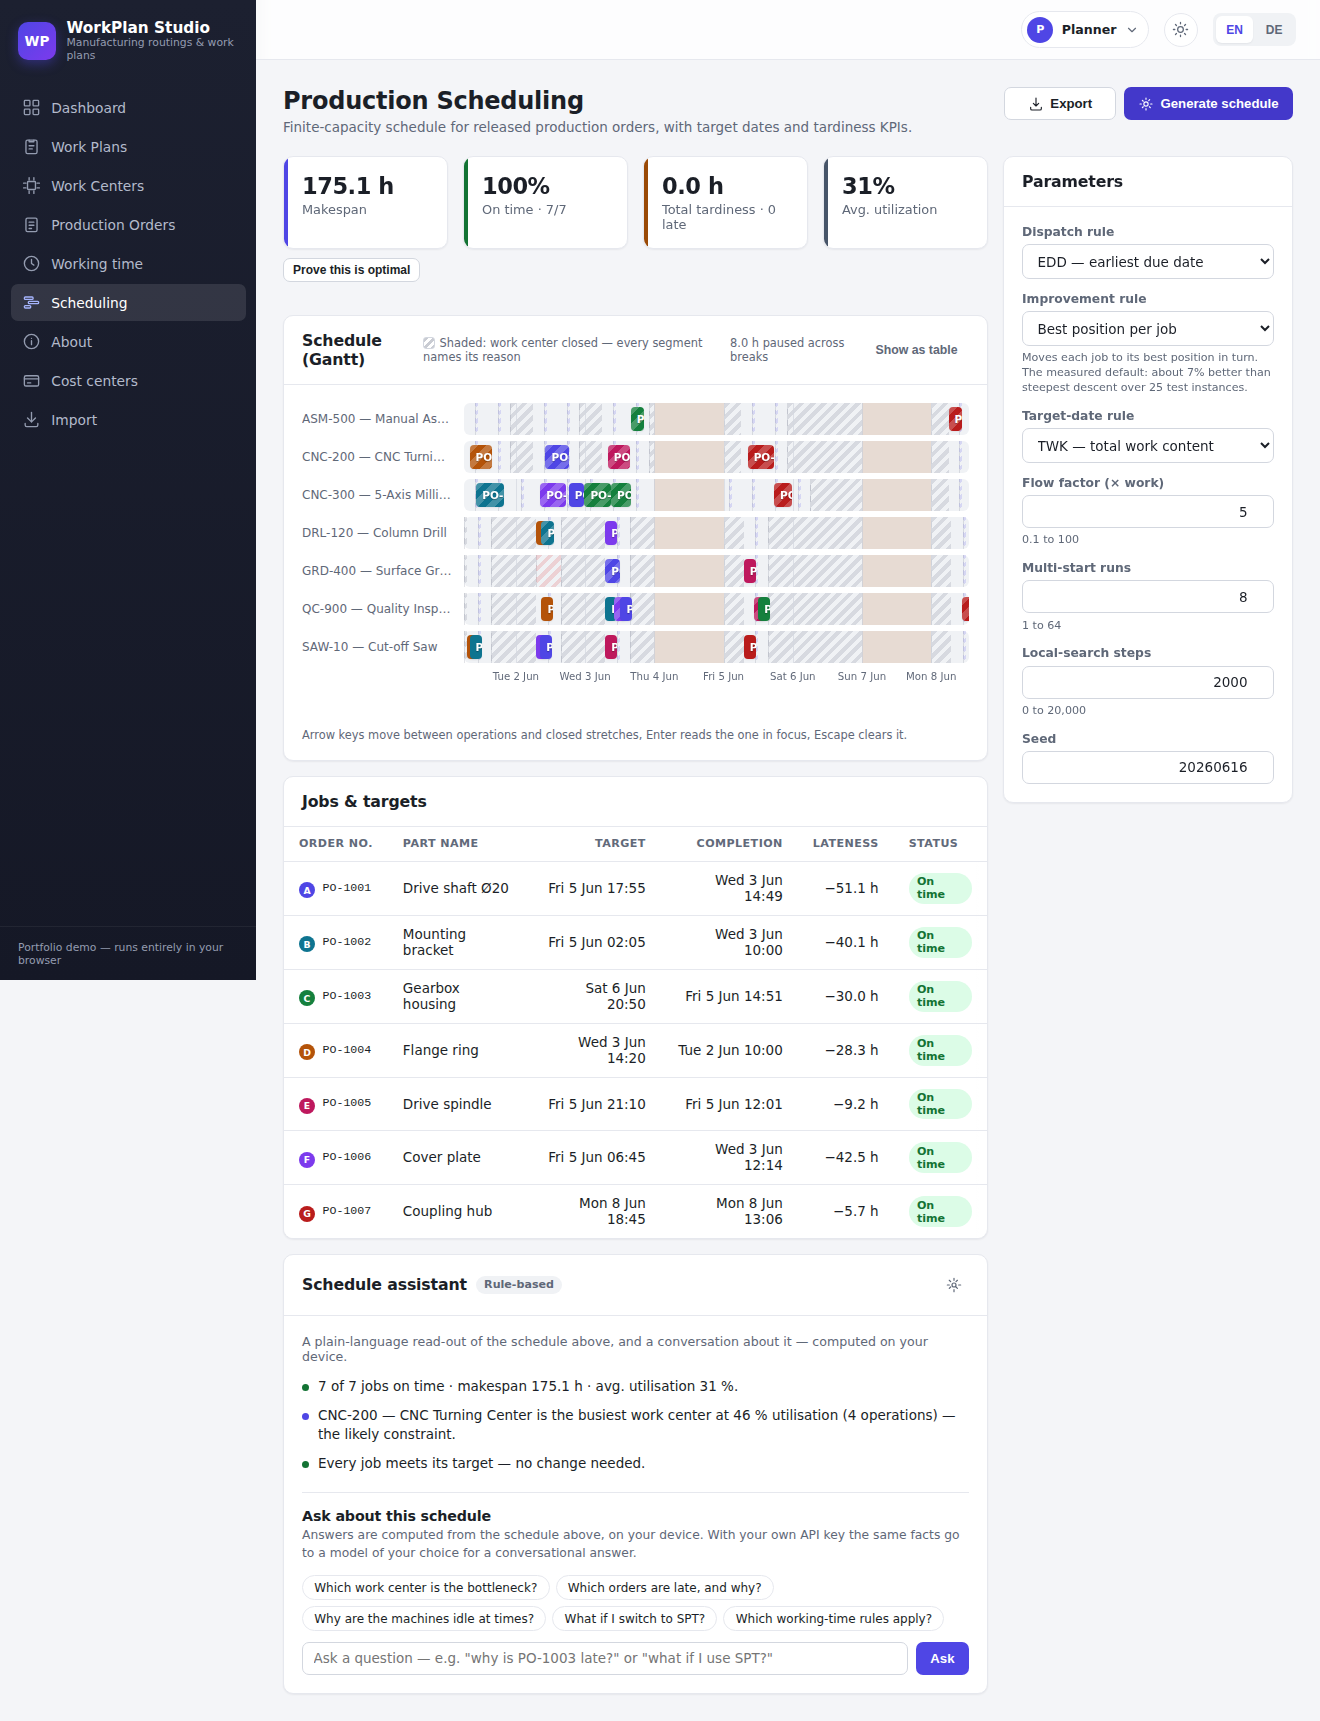
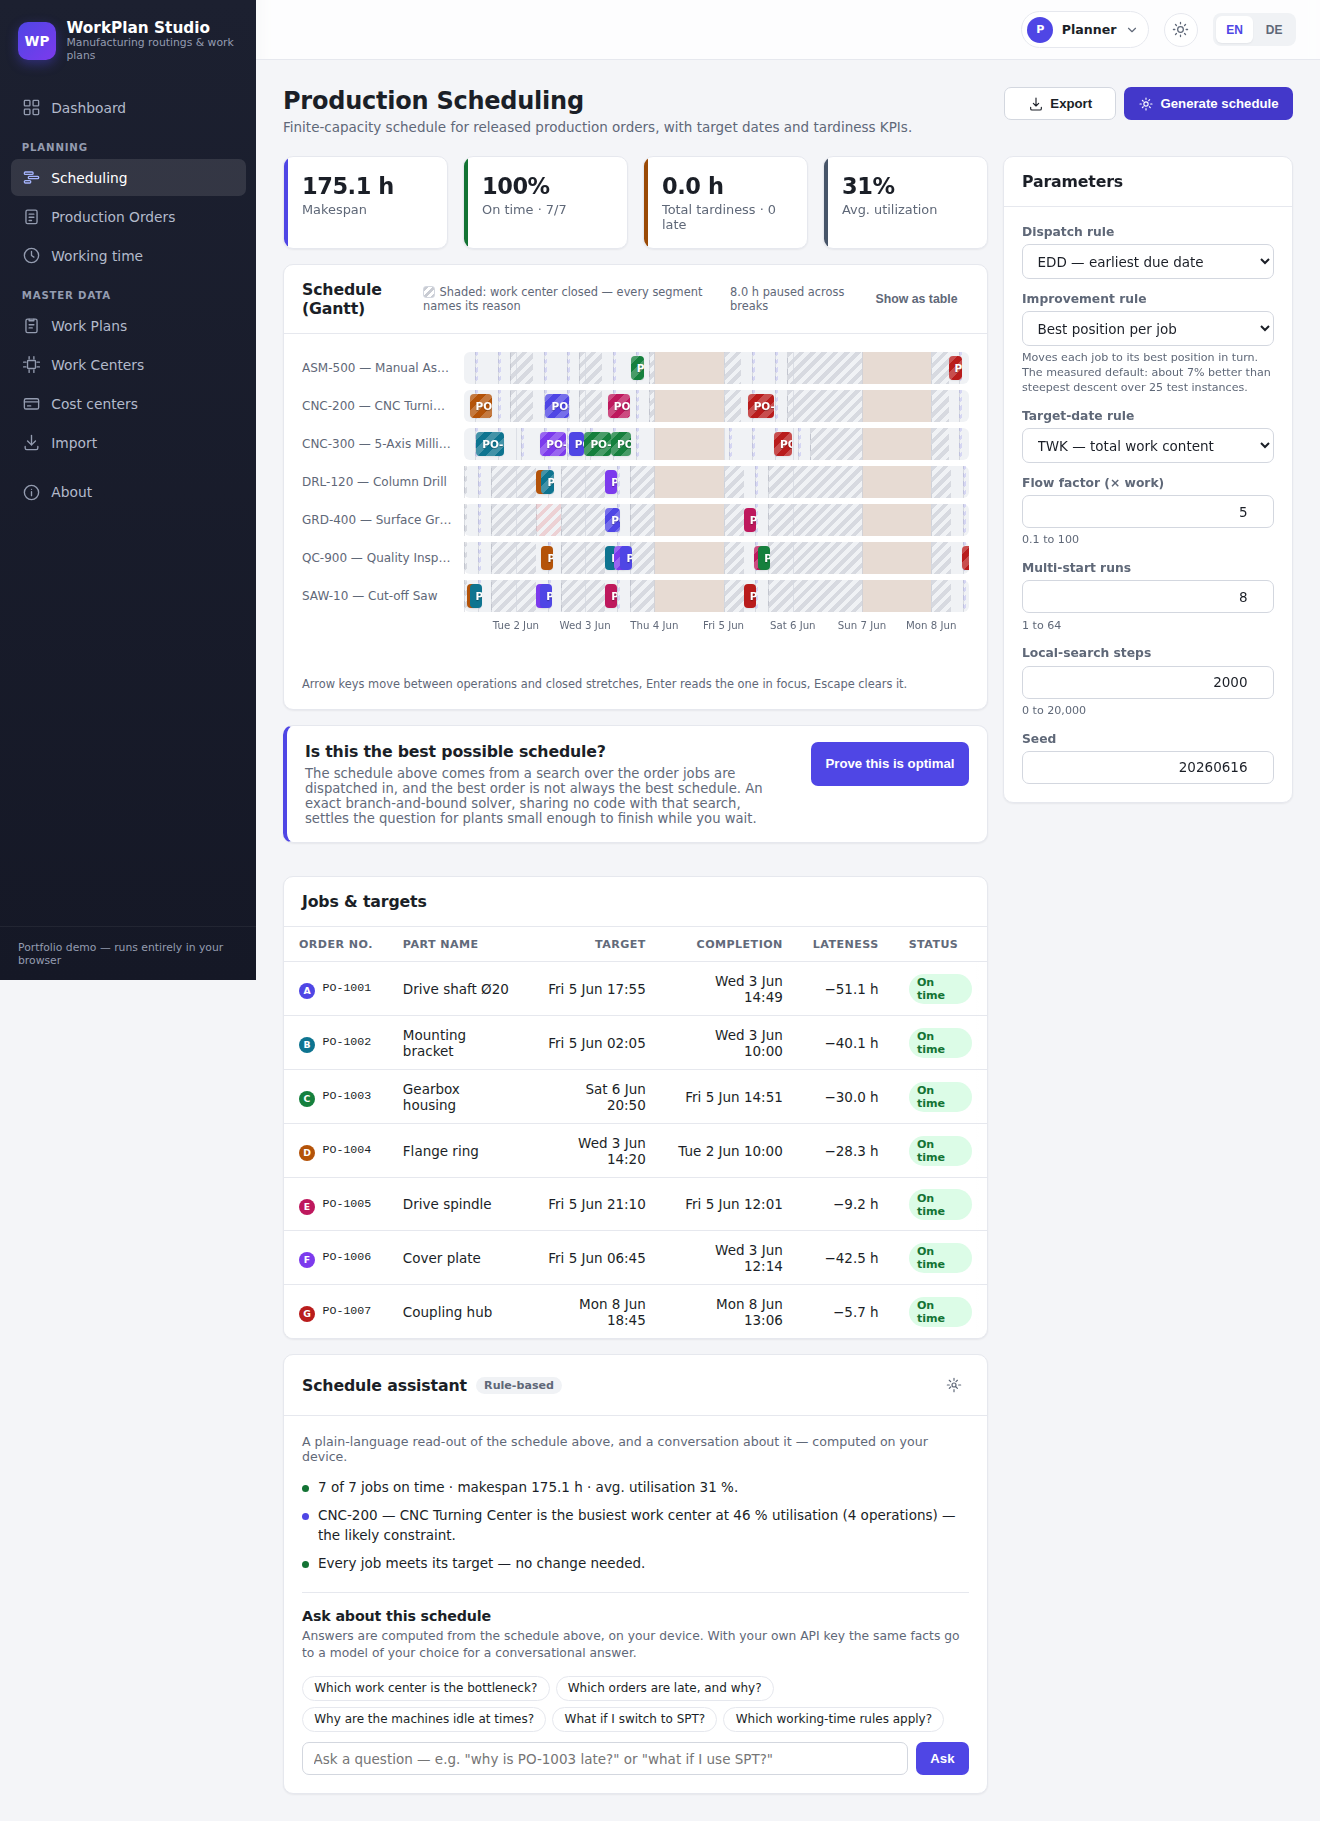
Retake every README screenshot, and the test counts with them
Captured on Linux by the E2E workflow's capture_doc_images input (run
43996563171): the dashboard in both themes, working time, the schedule dark
and on a phone, the chat in English and German, and the on-time/late pair.
They now show the grouped navigation and the optimality card.

Web suite 1 009 -> 1 011 (EditableAreaWhileAuthorizingTests), measured on
main; 1 807 in all.

diff --git a/README.de.md b/README.de.md
@@ -185,7 +185,7 @@ Die Kopfleiste lässt Sie **Planer** (alles), **Meister** (Aufträge freigeben u
 
 ## Entwicklungspraxis — gemessen, nicht behauptet
 
-- **1 805 Unit- und Integrationstests in fünf Projekten, dazu 102 Browsertests**: Unit, eigenschaftsbasiert (CsCheck), bewiesene Optimalität gegen einen unabhängigen Löser, Architektur, Leistungsbudgets, Datentests mit echtem SQLite samt Schemaaufwertung, Berechtigungen als per Reflexion ermittelte geschlossene Menge, bUnit-Komponenten, Anbieter-Clients gegen einen feindlichen Stub-Transport, HTTP-Integrationstests gegen das Backend, Byte-Tests der PDF- und xlsx-Writer, Playwright-Abläufe in beiden Sprachen, **null axe-Verstöße auf jeder Route in hell, dunkel und auf Deutsch** (der WCAG-2.x-A/AA-Regelsatz, also etwa ein Drittel des Standards) und **Bildvergleich** gegen Pixel-Baselines. [docs/TESTING.de.md](docs/TESTING.de.md).
+- **1 807 Unit- und Integrationstests in fünf Projekten, dazu 102 Browsertests**: Unit, eigenschaftsbasiert (CsCheck), bewiesene Optimalität gegen einen unabhängigen Löser, Architektur, Leistungsbudgets, Datentests mit echtem SQLite samt Schemaaufwertung, Berechtigungen als per Reflexion ermittelte geschlossene Menge, bUnit-Komponenten, Anbieter-Clients gegen einen feindlichen Stub-Transport, HTTP-Integrationstests gegen das Backend, Byte-Tests der PDF- und xlsx-Writer, Playwright-Abläufe in beiden Sprachen, **null axe-Verstöße auf jeder Route in hell, dunkel und auf Deutsch** (der WCAG-2.x-A/AA-Regelsatz, also etwa ein Drittel des Standards) und **Bildvergleich** gegen Pixel-Baselines. [docs/TESTING.de.md](docs/TESTING.de.md).
 - **Abdeckung je Assembly in der CI abgesichert, und die Schwelle selbst ebenso** — der Build scheitert, wenn eine Assembly unter ihre Schwelle fällt, und ebenso, wenn die Abdeckung **mehr als drei Punkte darüber** steigt: eine Schwelle, der die Abdeckung davongelaufen ist, verteidigt nichts mehr und wird nie rot dabei. Die Schwellen stehen an genau einer Stelle, in den `GATE_*`-Variablen von [`ci.yml`](.github/workflows/ci.yml), und liegen ein bis zwei Punkte unter dem Gemessenen. **Was gemessen wurde, steht auf den Badges oben**, erzeugt bei jeder Auslieferung aus demselben Lauf — sie *sind* die Zahl und nicht eine Kopie davon. Dieser Punkt trug die sechs Werte früher von Hand; als die Drift-Prüfung entstand, waren zwei davon drei Punkte hinter der Abdeckung zurück, die sie bewachen sollten.
 - **Auslieferung erst nach allem** — die Testmatrix mit ihren Abdeckungsschwellen *und* die Browser-Suite müssen bestehen, bevor GitHub Pages aktualisiert wird, und der Job, der fremden Testcode ausführt, hält keine Auslieferungsrechte.
 - **Leistung gemessen, auch dort, wo es unschmeichelhaft ist** — BenchmarkDotNet über die Bibliotheken, Stolperdrähte auf die Uhr und Lighthouse CI auf der veröffentlichten Seite, die den Seitenaufbau mit **36 / 100** bewertete, bis der erste Bildschirm beim Build gerendert wurde, und jetzt auf jeder gemessenen Seite **70** vergibt, Barrierefreiheit, Best Practices und SEO 100. Alles, samt der Maschine, auf der es gemessen wurde, steht in [docs/PERFORMANCE.de.md](docs/PERFORMANCE.de.md).

diff --git a/docs/TESTING.de.md b/docs/TESTING.de.md
@@ -33,12 +33,12 @@ Die Zahlen wurden auf diesem Stand durch Ausführen jeder Suite gemessen; siehe
 | --- | --- | --: | --- | :---: | --- |
 | Engine: Unit, Property, Optimalität, exakter Löser, Architektur, Budgets | `tests/WorkPlanStudio.Scheduling.Tests` | **294** | Determinismus, Zulässigkeit, Regeln, Kalender und Sperrzeiten, Eingabeprüfung, allokationsfreie Bewertung, die Optimalitätsstudie über zwanzig Instanzen, das LP-Modell, ein abhängigkeitsfreier Kern | nein | ~5 s |
 | Arbeitszeit: Unit, Property, Architektur, Budgets | `tests/WorkPlanStudio.WorkingTime.Tests` | **255** | Feiertage aller 16 Länder über 1990–2200, Schichtmodelle, jede ArbZG-Vorschrift mit ihrem Parameter, die Ausgleichszeiträume, beide Zeitumstellungen, die Invarianten des Zeitleistenbauers | nein | ~1 s |
-| Daten, Mapping, Berechtigungen, Import, Komponenten, Assistent, Fernzugriff | `tests/WorkPlanStudio.Web.Tests` | **1 009** | echte SQLite-Bedingungen und Schemaaufwertungen, das Alles-oder-nichts-Mapping, die Rollenrichtlinien als geschlossene Menge, das Versprechen des Imports (Vorschau = Übernahme), lokalisierte Komponentenzustände, der zerlegte Lauf, der Optimalitätsbeweis, der Chat gegen feindliche Antworten | ja¹ | ~5 s |
+| Daten, Mapping, Berechtigungen, Import, Komponenten, Assistent, Fernzugriff | `tests/WorkPlanStudio.Web.Tests` | **1 011** | echte SQLite-Bedingungen und Schemaaufwertungen, das Alles-oder-nichts-Mapping, die Rollenrichtlinien als geschlossene Menge, das Versprechen des Imports (Vorschau = Übernahme), lokalisierte Komponentenzustände, der zerlegte Lauf, der Optimalitätsbeweis, der Chat gegen feindliche Antworten | ja¹ | ~5 s |
 | Backend: HTTP-Integration gegen eine echte SQLite-Datei | `tests/WorkPlanStudio.Api.Tests` | **93** | Anmeldung, Kontosperre, Ratenbegrenzung, Rotation und Wiederverwendungserkennung der Refresh-Tokens, 401/403 je Route, Concurrency-Stempel — und dass der Server den Plan erzeugt, den auch der Browser erzeugt hätte | nein | ~3 s |
 | Export-Writer: CSV, xlsx, PDF | `tests/WorkPlanStudio.Export.Tests` | **154** | die Bytes, zurückgelesen: Formel-Injektion, Maskierung, die Teile der Arbeitsmappe, die Objekttabelle des PDF, die Datumsregeln beider Sprachen | nein | <1 s |
 | End-to-End, Barrierefreiheit, Bildvergleich | `tests/WorkPlanStudio.E2E` | **102** | echtes Chromium: Planänderungen, Determinismus, Sprache, Arbeitszeit im Gantt, Fertigungsaufträge von Anfang bis Ende, Speicherwiederherstellung, Rollen, Farbschema, Tastatur, Mobilgerät, der Chat in beiden Sprachen; axe WCAG 2.2 AA auf jeder Route in hell, dunkel und auf Deutsch; neun Bildschirm-Baselines | Browser² | ~75 s |
 
-**1 805 Unit- und Integrationstests, dazu 102 Browsertests.** Zehn der Browsertests
+**1 807 Unit- und Integrationstests, dazu 102 Browsertests.** Zehn der Browsertests
 sind die Pixelvergleiche, und sie werden außerhalb von Linux mit einer Begründung
 *übersprungen*, die [ADR 0021](adr/0021-visual-baselines-linux-only.md) nennt, statt
 gegen eine Baseline zu vergleichen, die niemand erzeugt hat.

diff --git a/README.md b/README.md
@@ -185,7 +185,7 @@ The top bar lets you be the **Planner** (everything), the **Supervisor** (releas
 
 ## Engineering practices — measured, not asserted
 
-- **1 805 unit and integration tests across five projects, plus 102 browser tests**: unit, property-based (CsCheck), proved optimality against an independent solver, architecture, performance budgets, real-SQLite data and schema-upgrade tests, authorization as a reflection-discovered closed set, bUnit components, provider clients against a hostile stubbed transport, HTTP integration tests against the backend, byte-level tests of the PDF and xlsx writers, Playwright flows in both languages, **zero axe violations on every route in light, dark and German** (the WCAG 2.x A/AA tag set, which is about a third of the standard), and **visual regression** against pixel baselines. [docs/TESTING.md](docs/TESTING.md).
+- **1 807 unit and integration tests across five projects, plus 102 browser tests**: unit, property-based (CsCheck), proved optimality against an independent solver, architecture, performance budgets, real-SQLite data and schema-upgrade tests, authorization as a reflection-discovered closed set, bUnit components, provider clients against a hostile stubbed transport, HTTP integration tests against the backend, byte-level tests of the PDF and xlsx writers, Playwright flows in both languages, **zero axe violations on every route in light, dark and German** (the WCAG 2.x A/AA tag set, which is about a third of the standard), and **visual regression** against pixel baselines. [docs/TESTING.md](docs/TESTING.md).
 - **Coverage gated per assembly in CI, and the gate is gated too** — the build fails when an assembly falls below its threshold, and also when coverage climbs **more than three points above** it, because a threshold coverage has outgrown defends nothing and stops being a gate without ever going red. The thresholds live in one place, the `GATE_*` variables in [`ci.yml`](.github/workflows/ci.yml), and each sits one to two points under what is measured. **What is measured is on the badges above**, written by the same CI run on every deployment — they are the number, rather than a copy of it that drifts. This bullet used to carry the six thresholds by hand; by the time the drift check was written, two of them had fallen three points behind the coverage they were guarding.
 - **Deploy gated on everything** — the test matrix with its coverage gates *and* the browser suite must pass before GitHub Pages is updated, and the job that executes third-party test code holds no deployment credentials.
 - **Performance measured, including the unflattering parts** — BenchmarkDotNet over the libraries, wall-clock tripwires, and Lighthouse CI on the published site, which scored the page load **36 / 100** until the first paint was rendered at build time and now scores **70** on every measured page, with 100 for accessibility, best practices and SEO. All of it, with the machine it was measured on, is in [docs/PERFORMANCE.md](docs/PERFORMANCE.md).

diff --git a/docs/TESTING.md b/docs/TESTING.md
@@ -31,12 +31,12 @@ Counts measured on this tip by running each suite; see *Running the tests* below
 | --- | --- | --: | --- | :---: | --- |
 | Engine: unit, property, optimality, exact solver, architecture, budget | `tests/WorkPlanStudio.Scheduling.Tests` | **294** | determinism, feasibility, rules, calendars and blackouts, input validation, zero-allocation scoring, the twenty-instance optimality study, the LP model, a dependency-free core | no | ~5 s |
 | Working time: unit, property, architecture, budget | `tests/WorkPlanStudio.WorkingTime.Tests` | **255** | holidays for all 16 states across 1990–2200, shift patterns, every ArbZG rule with its parameter, the averaging windows, both daylight-saving transitions, the timeline builder's invariants | no | ~1 s |
-| Data, mapper, authorization, import, components, assistant, remote | `tests/WorkPlanStudio.Web.Tests` | **1 009** | real SQLite constraints and schema upgrades, the all-or-nothing mapper, the persona policies as a closed set, the CSV import's preview-equals-commit promise, localized component states, the sliced run, the optimality proof, the chat against hostile responses | yes¹ | ~5 s |
+| Data, mapper, authorization, import, components, assistant, remote | `tests/WorkPlanStudio.Web.Tests` | **1 011** | real SQLite constraints and schema upgrades, the all-or-nothing mapper, the persona policies as a closed set, the CSV import's preview-equals-commit promise, localized component states, the sliced run, the optimality proof, the chat against hostile responses | yes¹ | ~5 s |
 | Backend: HTTP integration against a real SQLite file | `tests/WorkPlanStudio.Api.Tests` | **93** | login, lockout, rate limiting, refresh-token rotation and reuse detection, 401/403 per route, concurrency stamps, and that the server produces the schedule the browser would have | no | ~3 s |
 | Export writers: CSV, xlsx, PDF | `tests/WorkPlanStudio.Export.Tests` | **154** | the bytes, read back: formula injection, quoting, the workbook's parts, the PDF's object table, both cultures' date rules | no | <1 s |
 | End-to-end, accessibility, visual regression | `tests/WorkPlanStudio.E2E` | **102** | real Chromium: schedule changes, determinism, language, working time on the Gantt, production orders end to end, storage recovery, personas, theme, keyboard, mobile, the chat in both languages; axe WCAG 2.2 AA on every route in light, dark and German; nine screen baselines | browser² | ~75 s |
 
-**1 805 unit and integration tests, plus 102 browser tests.** Ten of the browser
+**1 807 unit and integration tests, plus 102 browser tests.** Ten of the browser
 tests are the pixel comparisons, and they *skip* off Linux with a reason naming
 [ADR 0021](adr/0021-visual-baselines-linux-only.md) rather than comparing against
 a baseline nothing produced.
